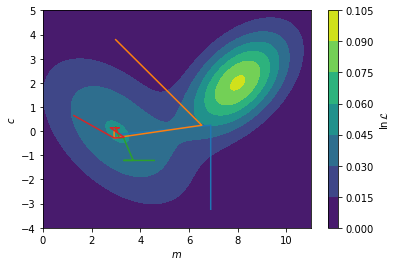
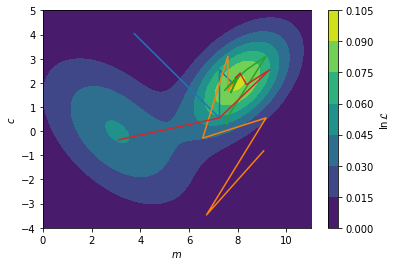
deploy: f9eff75ed99956f48f00e4bcb7a1b417d5329562

diff --git a/searchindex.js b/searchindex.js
@@ -1,1 +1,1 @@
-Search.setIndex({docnames:["1_the_fourier_transform/an_introduction_to_fourier_transforms","1_the_fourier_transform/fourier_transforms_for_reflectometry_analysis","2_model_dependent_analysis/what_is_model_dependent_analysis","3_reflectometry_slab_models/how_we_calculate_the_reflectivity_of_a_slab_model","3_reflectometry_slab_models/roughness_and_microslicing","3_reflectometry_slab_models/the_slab_model","4_model_reparameterisation/a_case_for_model_reparameterisation","4_model_reparameterisation/niti_multilayer_example","4_model_reparameterisation/phospholipid_monolayer_example","5_fitting_processes_and_problems/how_do_we_maximise_the_likelihood","5_fitting_processes_and_problems/how_to_leverage_our_prior_knowledge","5_fitting_processes_and_problems/what_is_the_likelihood","intro"],envversion:{"sphinx.domains.c":2,"sphinx.domains.changeset":1,"sphinx.domains.citation":1,"sphinx.domains.cpp":4,"sphinx.domains.index":1,"sphinx.domains.javascript":2,"sphinx.domains.math":2,"sphinx.domains.python":3,"sphinx.domains.rst":2,"sphinx.domains.std":2,"sphinx.ext.intersphinx":1,"sphinxcontrib.bibtex":9,sphinx:56},filenames:["1_the_fourier_transform/an_introduction_to_fourier_transforms.md","1_the_fourier_transform/fourier_transforms_for_reflectometry_analysis.ipynb","2_model_dependent_analysis/what_is_model_dependent_analysis.md","3_reflectometry_slab_models/how_we_calculate_the_reflectivity_of_a_slab_model.ipynb","3_reflectometry_slab_models/roughness_and_microslicing.ipynb","3_reflectometry_slab_models/the_slab_model.md","4_model_reparameterisation/a_case_for_model_reparameterisation.md","4_model_reparameterisation/niti_multilayer_example.ipynb","4_model_reparameterisation/phospholipid_monolayer_example.ipynb","5_fitting_processes_and_problems/how_do_we_maximise_the_likelihood.ipynb","5_fitting_processes_and_problems/how_to_leverage_our_prior_knowledge.md","5_fitting_processes_and_problems/what_is_the_likelihood.ipynb","intro.md"],objects:{},objnames:{},objtypes:{},terms:{"0":[1,3,4,8,9,10,11,12],"000":9,"00039":12,"001":[1,3,4],"00260":12,"003":12,"0053":12,"007":12,"012":12,"01980001503076100":12,"02":12,"022":[7,12],"02606134":9,"02614057":9,"0294":12,"03":12,"033":9,"04483674":9,"04493869":9,"0469":12,"04893":12,"0496667614679125":11,"06":[4,7],"07":12,"074":1,"074e":[1,4],"078":12,"092":9,"0j":[3,4],"1":[0,1,3,4,7,8,9,10,11,12],"10":[1,4,7,9,11,12],"1000":[1,3,8,9,11],"1008202821328":12,"1016":12,"1023":12,"1039":12,"104":1,"1051":12,"107":12,"108":12,"1098":12,"11":[9,12],"1103":12,"1107":12,"1119":12,"1198":12,"12":[4,11,12],"1204":12,"14":4,"15":[8,12],"155":12,"16":[1,3],"167":9,"17":4,"1761":12,"1763":12,"18":[8,12],"186":1,"186e":[1,3,4],"19":[8,9,12],"193":12,"1948":12,"194812030504":12,"1954":12,"197":12,"1980":12,"1997":12,"1998":12,"1999":12,"1e":4,"1f77b4":11,"1j":[1,3],"2":[1,2,3,4,7,9,11,12],"20":[1,3,4],"200":[1,3,4,12],"2005":12,"2006":12,"2007":12,"2010":12,"2011":12,"2018":12,"2019":12,"2021":12,"20384101638663543":11,"204":12,"21":12,"23":7,"248":12,"25e":4,"265":8,"265n_c":8,"2827":12,"2848":12,"297":12,"2k_nk_":4,"3":[1,3,4,5,7,9,11,12],"300":[1,3],"311":12,"3254017":12,"33":12,"338":12,"339":12,"341":12,"342":12,"357":12,"359":12,"369":12,"370":12,"3blue1brown":0,"3e":7,"4":[1,3,4,5,7,9,11,12],"40":12,"41":12,"417":7,"417e":7,"418":12,"42":[11,12],"4245e":4,"434":12,"438":7,"44":12,"4526":12,"47":[7,12],"471":12,"5":[1,3,4,8,9,12],"50":4,"500":[1,3,4],"504":12,"51":7,"52":12,"520":12,"53":12,"531":12,"54":12,"58":7,"59":12,"596":12,"5q":3,"6":[1,3,4,7,9,12],"6133":12,"6141":12,"648":12,"649":12,"69":7,"7":[4,8,9,11],"761":12,"779":12,"78":12,"8":[4,7,9,11],"856832":12,"867":7,"87":12,"871":1,"871e":[3,4],"9":[4,7,12],"90":8,"908":7,"91":7,"922868":12,"95":12,"951e":7,"978":12,"98":[1,12],"99":12,"9957561":9,"99615666":9,"99998503":9,"99999727":9,"\u00e0":12,"\u00e5":[0,1,3,4,7,8],"\u00e8":12,"\u00e9":12,"\u00f6":12,"\u00fc":12,"abel\u00e8":[3,4],"abstract":7,"br\u00f6hl":12,"case":[5,10],"do":[1,2,12],"float":[7,9,11],"function":[1,2,3,4,5,8,9,11],"import":[1,2,3,4,5,6,7,8,9,11],"int":1,"new":12,"return":[1,3,7,9,11],"switch":12,"true":[6,9],"try":9,"while":[6,7],A:[1,2,4,5,7,8,9,12],As:[5,8],Be:9,By:2,For:[1,7,8,11,12],If:[1,2,9,10,11,12],In:[1,5,6,8,9,10,12],It:[2,4,5,8,9,10,12],No:4,One:8,The:[0,2,3,4,6,7,8,9,11,12],Then:[1,2,3],There:[4,9],These:[1,4,9],To:[1,4,6],_:[1,3],ab:[1,3],abel:[3,4,12],abeles48:[3,12],abeles_with_rough:4,abl:4,about:[6,8,9,10],abov:[1,2,4,7,9,11],abscissa:11,absolut:9,academ:12,accept:[1,10],account:[4,12],accur:[2,4,6],acf2:1,acf:1,achiev:[4,8,10],across:11,act:8,action:1,ad:8,adapt:4,add:8,add_patch:4,addit:[1,6,8],addition:[2,3,4,6,7,9],admittedli:4,advanc:12,advis:12,affect:8,after:[1,9,12],again:[1,4],against:5,agnet:12,agre:11,agreement:[2,9,11],aid:3,aim:[9,11,12],air:[1,4,8,12],al:6,algorithm:[2,9,10,12],all:[0,3,9,10],allow:[6,7,8,9],alon:9,alonso:12,alpha:11,alreadi:[2,10,12],also:[4,7,8],although:1,am:12,amphiphil:8,an:[2,4,5,6,9,10,12],analog:[0,9,11],analys:[9,12],analysi:[3,5,7,8,9,10,11,12],analyt:2,andbook:12,andrew:12,angstrom:7,ani:[4,11,12],ann:12,anomagnet:12,anoth:1,anphi:12,apm:8,append:9,appl:12,appli:[1,2,4,6,8,9,12],applic:[3,9,12],approach:[1,2,3,4,5,6,7,8,9,12],approx:1,approxim:[3,12],ar:[0,1,2,3,4,5,6,7,8,9,10,11,12],area:6,argmax:9,argsort:9,arnold:12,around:4,arrai:[1,3,4,7,9],artefact:4,artifici:12,assembl:8,assess:9,assign:7,associ:[10,11,12],assum:[8,12],assumpt:[2,6,7,8],ateri:12,atom:[7,8],attach:8,attent:12,autocorrel:1,avail:1,avogadro:7,awar:[2,9],ax:[4,11],axhlin:1,b:[3,7,12],b_:[3,7],b_i:[7,8],b_ni:7,b_ti:7,back:9,bar:[3,11],base:[2,3,7],basic:12,bay:[10,12],bayesian:[10,12],becom:[1,9],been:[1,3,4,7,8,12],befor:[0,4,5,12],begin:3,being:[2,4,11],belief:10,believ:2,below:[0,1,3,4,5,7,8,9,11],benefit:8,berk:12,best:[8,9,11],beta:[1,3,4,7,8],beta_0:3,beta_1:5,beta_2:5,beta_:[1,7,8],beta_i:8,beta_microsl:4,beta_n:3,beta_ni:7,beta_ti:7,between:[0,1,2,3,4,5,9,11],bia:2,bias:10,bigg:[1,11],biolog:[9,12],bj:12,bjorck11:[9,12],black:[1,9],block:12,blue:[1,9,11],bmatrix:3,book:[1,10,12],born:[3,12],borrow:1,both:8,bound:[7,10],bowen:12,bp63:[10,12],bring:3,broad:[2,11],broadli:2,brought:3,bsd:3,c9cp00203k:12,c:[1,9,11,12],calcul:[1,2,4,5,8,11],call:5,callback:9,campbel:12,can:[1,2,3,4,5,6,7,8,9,10,11,12],cannot:[4,11],caract:12,carbon:8,carefulli:9,caruana:12,cation:12,catter:12,caus:8,caution:6,cdot:7,centr:12,chanc:12,chang:[1,2,9],character:12,characterist:3,characteristic_matric:3,chem:12,chemic:[5,6,12],chemistri:2,chi:11,circ:8,clark:12,clear:[2,4,5,9],clearer:3,clearli:4,click:12,clifton:12,close:3,cm:7,coci:12,code:[4,7,9,12],collect:12,colloid:12,color:11,colorbar:9,comfort:12,common:[2,4,5,7,8,9],commonli:[6,9,11],companion:12,compar:[2,3,4,6,11],comparison:5,complementari:6,complet:[2,9],complex:[3,8,9,12],composit:8,comput:12,computation:9,concept:6,conclus:9,condens:12,conj:3,conjug:3,consid:[1,2,3,4,5,7,8,9,10,11],consider:9,consist:[5,7,8],constant:[2,7,10],constrain:[7,8],constraint:[6,8],construct:[2,3,5,10],consult:8,content:12,context:2,continu:12,contourf:9,contrast:9,convers:6,could:[5,10],coupl:9,cours:12,cover:[2,12],creat:4,croce:[4,12],crystallogr:12,crystallographi:1,css:[8,12],cubitt:12,curr:12,current:[9,12],current_theta:9,curve_fit:11,d:[1,3,4,11,12],d_1:5,d_2:5,d_h:8,d_i:8,d_microsl:4,d_n:3,d_t:8,dan:12,data:[1,2,3,4,5,6,7,8,9,10,11,12],databas:7,datapoint:11,dataset:[9,11],de:12,decomposit:0,deep:12,def:[1,3,7,9,11],defin:[1,2,5,6,7,8,11],deg2rad:8,delta:1,denot:1,densiti:[1,3,4,5,6,8],depend:[5,7,8,9,10,11,12],deposit:7,deriv:[1,5],descent:9,describ:[2,3,4,5,6,9,10,11],descript:[1,6,8],design:10,desir:[7,9],deslatt:12,destruct:5,detail:[0,1,2],detector:5,determin:[3,9,12],develop:12,deviat:[3,11],devind:[1,10,12],diatom:2,diff:[1,3],differ:[1,4,5],differenti:[9,10,12],differential_evolut:9,difficult:8,dimens:[1,5],dimension:9,dioxid:[1,4],directli:7,discoveri:9,discuss:[1,4,5,11],disposit:7,distribut:[9,11],divid:1,docstr:3,doctrin:12,doe:[2,3,4],doi:12,domain:0,done:11,dot:11,downhil:9,dppc:8,dr:[1,10,12],draw:[9,12],dtype:3,du:12,due:[1,2],dura:12,dvanc:12,e:[5,12],each:[3,4,5,7,8],easili:[7,9],edgecolor:4,edit:12,editor:12,edler:12,effect:[1,4,9,12],effici:12,eflect:12,elast:0,element:[7,11],elementari:[1,12],eleph:12,els:2,enabl:[4,10],encount:[2,9],end:3,enrol:12,ensur:[2,9],entir:2,enumer:11,enzym:2,equat:[1,2],error:[4,11],errorbar:11,essai:12,essenti:0,estim:1,et:6,european:12,eutect:12,eutron:12,evalu:[7,12],eventu:9,ever:2,everi:8,evolut:[9,10,12],evolutionari:9,exampl:[2,4,5,6,9,10],exhaust:12,exist:[4,9],exp:[1,3,4],expect:[2,10],experi:[2,12],experiment:[2,5,6,11],explicitli:1,exploit:12,extend:8,extrem:8,f:[3,7,12],fact:10,factor:[3,11],fair:2,fals:4,familiar:[1,2,6],fantast:1,far:11,fashion:9,feder:12,feed:9,feedback:12,feel:12,fernandez:12,ff7f0e:11,field:[8,12],fig:[2,4,5,8,11],figsiz:[4,11],figur:[1,2,4,9,11,12],file:12,fill:4,fill_between:11,find:[1,2,4,7,8,9,10,11],first:[1,2,3,5,6,7,9,11,12],fit:[2,6,7,9,11],fitzsimmon:12,flat:[1,4],flavour:[6,9],flexion:12,flow:2,fm05:12,fm:7,focus:0,follow:[1,7,8,9,11,12],forc:2,form:[1,9],formal:[3,4],format:12,found:[1,3,4,7,8,9,10],four:12,fourier:[2,3,5,12],fourier_transform:1,frac:[1,3,4,7,8,10,11],fraction:8,free:[6,9,12],frensel:3,fresnel:[3,4],fresnel_reflect:3,from:[0,1,2,3,4,5,6,7,8,9,11,12],full:1,fulli:8,fundament:[0,5],further:[9,10],g:[7,12],garbag:2,gcm:7,gener:[2,9,12],genet:12,geometri:5,gerelli:12,get:[2,11,12],give:[0,3,6,12],given:[4,5,8,9,11],glob:12,global:[9,12],go:[3,5,9],good:11,gradient:11,gradient_callback:9,gradient_v:9,graphic:7,great:[0,10],greater:1,group:8,guess:9,guntherodt:12,h:12,ha:[1,4,7,8,12],hall:12,hand:4,hard:7,harder:9,have:[1,2,3,8,9,10,11,12],head:8,heavili:[8,11,12],heavisid:1,heinrich:12,helper:[4,9],henc:[0,11],henomena:12,here:[3,11,12],heurist:12,higher:8,hoogerheid:12,hopefulli:5,horizont:1,how:[2,5,6,8,11,12],howard:12,howev:[1,2,4,5,6,7,9,11],hydrocarbon:8,hydrophil:8,hydrophob:[8,12],i:[1,3,5,7,8,11],identifi:4,ignor:4,impact:[0,4],implement:[3,4,9],impli:4,impos:10,improv:2,inaccur:4,incid:[1,5],includ:[0,2,3,7,8,12],incorrectli:4,increas:[4,9,11],independ:2,indic:[1,9,11],individu:[3,7],induc:12,influenc:4,inform:[1,6,12],infti:1,inher:2,initi:9,input:3,insect:9,insight:[2,12],insolubl:8,inspir:9,instead:[1,3,7,9,10],instrument:8,integr:[10,12],intens:[1,9],interact:[0,1,7,8,9,11,12],intercal:8,intercept:11,interest:[0,2,12],interfac:[3,4,5,8,12],interfer:5,interpret:[2,4],interrog:[4,9],introduc:[2,4,5,6,8,10,12],introduct:10,inv_fourier_transform:1,invers:[1,12],investig:[1,2,6,9],involv:[5,7],isbn:12,isotop:9,issu:1,its:7,j:12,jackson:12,jci:12,john:[6,12],jpsc21:[6,12],jupyt:12,jupyterhub:12,k0:3,k:[1,3,9,12],k_0:3,k_:[3,4],k_n:[3,4],karin:12,khairi:12,kienzl:12,kinet:2,kn:3,knowledg:12,known:[2,4,8],kronm:12,l:[9,10,11,12],la:12,label:[1,3,4,9],lak19:12,lakei:12,languag:[6,12],larg:[1,12],later:[5,7],latter:6,launch:12,lawrenc:12,layer:[3,4,5,7,8],le:12,lead:[0,2,4,5],leak:4,learn:[7,8,9,11,12],lectromagn:12,lectur:12,left:4,legend:[1,3,4],length:[1,3,4,5,6,8],less:5,let:[0,1,10],licens:3,light:12,like:[2,4,8,10],likelihood:10,limit:[1,2,7,8],line:[1,9,11],linearli:11,link:12,linspac:[1,3,4,8,9,11],lipid:12,liquid:12,list:12,literatur:8,ller:12,ln:[9,11],loadtxt:11,local:9,log:[1,3,4,11,12],logic:[2,10,12],logpdf:9,lond:12,look:[0,1,2,3,6,9,10,11],loss:1,lost:5,lovel:12,low:3,lr99:[2,12],ls:11,lw:11,m:[3,9,11,12],m_:[3,7],m_w:7,m_w_ni:7,m_w_ti:7,made:[2,6,7],magnet:12,magnitud:1,mai:[1,2,6,7,11,12],majkrzak:12,major:[7,11],make:[2,3,6,8,12],manag:12,mani:9,marker:11,mass:6,match:1,materi:[1,3,4,5,7,12],mathcal:[9,10,11],mathemat:12,mathit:[1,3],mathrm:[1,3,7,8,11],matnei:12,matplotlib:[1,3,4,8,9,11],matric:3,matrix:[3,4],matter:[7,12],matyszewska:12,max:[1,3,11],maxima:9,maximilian:12,maximis:[10,11],maximum:[8,9,10,11],mayer:12,mbd:[1,12],mccluskei:12,mead:9,mean:[1,4,7,8,9,11],measur:[0,1,2,5,6,10,11],media:3,member:9,membran:12,menten:2,mention:8,merit:2,meshgrid:9,method:[3,4,12],methodolog:[1,2,4,9,12],metric:[9,11],micel:12,micha:2,might:2,milieux:12,minim:9,minimis:[9,11],minimum:[9,10],minut:12,mkh10:[2,12],modal:9,model:[1,4,7,8,9,10,11,12],modifi:[3,4,12],modul:[4,9],mol:7,molecul:[2,6],molecular:7,monolay:12,more:[0,2,4,6,7,8,9,10,11],most:[3,4,5,9],move:9,movement:12,msfe:[8,12],much:[3,5],multi:9,multivariate_norm:9,must:[2,4,8],mv1:9,mv2:9,mv:9,n:[3,4,7,8,11,12],n_:[3,11],n_a:7,n_c:8,nanostructur:12,natur:[6,8],navig:12,nazaruk:12,ndarrai:[1,3,7,9,11],nearbi:9,necessari:[3,4,9],need:2,neg:9,nelder:9,nelson:12,neutron:[0,1,2,3,5,6,7,9],nevot:4,nevotc80:[4,12],newaxi:[1,3],ni:7,nickel:[4,7],nll:9,nois:1,noisi:1,non:9,none:9,norm:11,normal:[1,3,9,11],normal_wavevector:3,normalis:[1,11],note:[1,2,8,9],notebook:[7,8,9,11,12],notic:[4,11],now:[0,3,4,8,9,11],np19:[3,12],np:[1,3,4,7,8,9,11],nuanc:5,number:[1,6,7,8,9,11],number_lay:3,number_q:3,numpi:[1,3,4,7,8,9,11],o:11,observ:[1,4,5,11],obtain:[1,4,7],obvious:5,offer:2,olar:12,onc:[9,12],ond:12,one:[8,9,10,11,12],ones:3,ones_lik:4,onli:[1,4,7,8,11],onlin:7,opin:12,opinion:12,optim:[9,11,12],optimis:[8,9],optimum:9,orang:[9,11],order:[5,9],org:[7,8,9,11,12],other:[8,11],our:[1,2,4,5,6,7,8,9,11],out:[2,10],outsid:10,over:12,overal:[3,9,11],overview:0,oxford:12,p0:3,p1:3,p:[10,11,12],packag:[3,7],page:12,pai:12,pan:[7,8,9,11,12],panaccion:12,panosc:12,paper:12,par54:[3,12],par:12,param:[1,3,7,11],paramet:[3,4,5,6,7,8,9,10,11,12],parameteris:[6,8,12],pari:12,parker:12,parkin:12,parratt:[3,12],part:[1,11],particl:9,particular:[5,6],particularli:12,patch:4,path:[5,9,12],pattern:[0,5],pdf:[9,11],peak:1,pedulla:12,per:6,perfect:4,perfectli:4,perform:[0,1,11],perpendicular:1,pg:1,phase:[1,2,3,12],phase_factor:3,phi:3,phi_0:3,phi_i:8,phi_n:3,phi_t:3,phil:12,phospholipid:12,phy:12,physic:[1,2,5,6,8,12],physica:12,physrev:12,pi:[1,3,11],pictori:8,piec:[1,4,7],pint:7,place:10,plane:[1,8],pleas:12,plot:[1,3,4,8,9,11,12],plt:[1,3,4,8,9,11],point:11,polar:12,polissag:12,popul:9,popular:2,posit:9,possibl:[1,2,4,5,8,9,11],posterior:10,power:12,prepar:[2,7],prescott:12,present:[1,2,4],press:12,pressur:8,preston:12,previou:[2,6],previous:[3,4,6,8],price:12,print:[7,9],probabl:[10,11],probe:[2,9,10],problem:[1,2,9,12],procedur:12,process:[2,6,7,9,12],prod:3,produc:[1,2,12],product:3,profil:[1,4,5],program:12,project:12,propag:[3,5,12],propos:2,propto:10,py:[4,9],pyplot:[1,3,4,8,9,11],python:[3,12],q2:1,q:[0,1,2,3,4,12],q_:1,q_x:1,q_y:1,qualiti:9,quantifi:9,quelqu:12,question:12,quick:1,r2:1,r:[1,3,4,5,8,12],r_:[3,4],r_abel:3,r_fourier:3,r_microsl:4,r_nevot_croc:4,r_with_rough:4,radiat:[0,1],rai:[1,12],random:9,rang:[1,2,3,4,9,12],rasant:12,rather:[2,6,7],ratio:5,ration:9,rayon:12,rck:12,re:9,reach:[7,9],read:12,reader:12,real:[3,4,5],realli:2,reason:7,recent:[8,12],recogn:12,rectangl:4,recurs:3,red:4,reduc:[6,8],refin:5,reflect:[1,2,4,5,12],reflectometri:[0,2,3,4,5,6,7,8,9,11],refnx:[3,12],refract:[3,5],region:[1,4,8,9],relat:7,relationship:1,relev:[8,12],reli:3,render:1,reparameteris:[5,7,8,11,12],repeat:7,repres:[2,11],reproduc:3,request:12,requir:[6,12],res1:9,res2:9,resolut:[1,2],respect:1,result:[1,2,3,4,5,9],resultant_matrix:3,retriv:1,rev:12,review:12,rewrit:1,rho:[3,7],rho_:7,rho_ni:7,rho_ti:7,rho_to_beta:7,richardson:12,right:4,risat:12,robust:9,room:7,root:9,rout:9,rphysap:12,rsta:12,rstl:12,rule:4,run:12,s0021889811041446:12,s0921:12,s1359:12,s1600576718017016:12,s1600576718017296:12,s:[0,1,7,8,9,10,12],saaka:12,sai:1,same:[4,5,7,11],sampl:[0,1,2,4,7],sanchez:12,sansom:12,satija:12,scale:[1,12],scatter:[0,1,3,4,5,6,8,12],sche:12,sci:12,scienc:[2,12],scipi:[7,9,11],search:12,section:[2,5,6,9],see:[4,5,9],seen:[10,11],select:11,self:8,semi:9,sensit:1,seri:[3,4,5],set:7,set_xlabel:[4,11],set_xlim:4,set_ylabel:[4,11],set_ylim:4,shao:12,shape:[3,9],shortest:4,should:[1,4,6,8,9,11,12],show:[1,2,3,4,5,7,8,9,11,12],shown:[1,2,3,4,5,8,9,11],si:1,sigma2:4,sigma3:4,sigma5:4,sigma7:4,sigma:[4,11],sigma_:4,sigma_n:11,silic:12,silicon:[1,4,7],similar:[2,3],simpl:[1,2,5,6,7,8,9,10,12],simpli:9,simul:[2,4,5,6,7],sin:8,singl:[8,11],sio_2:1,sit:[8,11],siv11:[1,12],sivia:[1,10,12],sj06:[10,12],skill:12,skip:12,sko19:12,skoda:12,slab:[4,6,8,12],sld_with_rough:4,smooth:[1,4],so:[11,12],soc:12,soft:12,softwar:12,solid:12,solubl:8,solut:9,solv:12,solvat:8,solvent:[8,12],some:[0,1,2,4,5,8,9,10,11,12],someth:[0,2],son:12,sourc:12,sp97:[9,12],space:[0,9,12],spallat:12,speak:8,specif:[6,8],spectra:2,specular:12,spintron:12,springer:12,sqrt:3,squar:[1,3],sratifi:12,staff:8,standard:11,start:[9,10],stat:[9,11],state:10,step:[4,9,10],stephen:12,still:[4,7],storn:12,straight_lin:11,straightforward:6,strand:8,stratifi:3,structur:[1,2,6,7,12],studi:[1,2,8,12],subject:12,subplot:[4,11],suggest:[10,12],sum:[1,3,7],sum_:[7,8,11],summat:11,superphas:3,sur:12,sure:12,surfac:[1,3,7,12],surfact:12,swarm:9,synthesi:2,system:[1,2,4,5,6,7,8,9,12],t:[9,12],t_t:8,tackl:2,tail:8,take:[0,2,9,10,12],taken:[3,5],tan80:[8,12],tanford:[8,12],techniqu:[6,12],temperatur:7,tend:1,term:[5,7,8,11],textquotesingl:12,than:[1,4,7,9],thank:12,thei:[9,12],them:[4,11],theorem:10,theori:[1,12],therefor:[2,4,6,7,9,10],theta:[8,9,10,11],thi:[0,1,2,3,4,5,6,7,8,9,10,11,12],thick:[1,3,4,5,8],thin:4,thing:2,think:6,those:10,thought:1,three:[2,7],through:[3,4,5],thumb:4,tight_layout:11,time:[0,1,4,7,12],tiqu:12,titanium:7,tkh:[9,12],togeth:3,tool:[1,2,6],top4:9,top:1,toperverg:12,total:12,touch:12,toward:[1,9,12],tradit:[7,8,12],tran:12,transform:[2,3,5,12],translat:6,transmitt:3,treec:12,trigonometri:8,tude:12,turn:9,tutori:[10,12],two:[2,3,4,5,6,8,9],txt:11,typic:[2,4,5,6,7,8,9,11],tz07:12,u:7,uantum:12,umbrellaid:12,uncertainti:11,unclear:7,under:[1,3,8],underli:[2,11],understand:[2,3,5,6,10,12],unintuit:6,uniqu:9,unit:0,unitregistri:7,univers:12,unlik:8,unphys:[1,4],until:7,up:[9,12],uphil:9,url:12,us:[2,3,4,6,7,8,9,10,11,12],useless:1,user:[1,12],utilis:1,valu:[1,3,7,8,9,10,11],vari:[7,9],variabl:7,varieti:9,vector:3,veri:[4,8,9],verr:12,version:1,via:[7,8,9,11],vibrat:2,video:0,visit:12,visualis:[1,4],vot:12,w:[7,12],wa:[1,2,5,10,12],wai:[2,8],wait:12,want:12,watch:0,water:[8,12],wave:[3,5],wavevector:[1,3],wc19:12,we:[0,1,2,4,5,6,7,8,10,11,12],weight:7,welbourn:12,well:2,were:10,what:12,when:[3,5,8,9,10,11],where:[1,2,3,4,5,7,8,9,10,11],which:[0,1,3,4,7,8,9,10,11],width:4,wiesendang:12,wilei:12,within:10,without:[1,2,4],word:2,work:[4,6,12],workflow:2,wormington:12,would:[2,4,5,8,10],wpmb99:[9,12],written:[1,11],wwe:8,x:[1,9,11,12],x_n:11,xlabel:[1,3,4,8,9],xy:8,y:[9,10,11,12],y_fit:11,y_n:11,ylabel:[1,3,4,8,9],you:[1,2,10,11,12],your:[8,12],yourself:12,yscale:[1,3,4],yy:11,z:[1,3,4,5],zabel:12,zero:3,zeros_lik:[1,3],zhou:12,zorder:11,zq:1,ztbt07:12},titles:["An introduction to Fourier transforms","Fourier transforms for reflectometry analysis","What is model-dependent analysis?","How we calculate the reflectivity of a slab model","Roughness and microslicing","The \u201cslab model\u201d","A case for model reparameterisation","NiTi multilayer example","Phospholipid monolayer example","How do we maximise the likelihood?","How to leverage our prior knowledge?","What is the likelihood?","Introduction to neutron reflectometry fitting"],titleterms:{"case":6,"do":9,A:[6,10],The:[1,5],algorithm:3,an:[0,1],analysi:[1,2],angl:8,approxim:1,area:8,bibliographi:12,born:1,calcul:3,chain:8,densiti:7,depend:2,exampl:[1,7,8],fit:12,fourier:[0,1],gradient:9,how:[3,9,10],interfac:1,interfaci:4,introduct:[0,12],knowledg:10,layer:1,length:7,leverag:10,likelihood:[9,11],mass:7,maximis:9,method:9,microsl:4,model:[2,3,5,6],molecul:8,monolay:8,multilay:7,neutron:12,niti:7,our:10,oxid:1,per:8,phospholipid:8,prior:10,problem:4,reflect:3,reflectometri:[1,12],reparameteris:6,rough:4,scatter:7,singl:1,slab:[3,5],specular:1,stochast:9,tilt:8,transform:[0,1],uniform:10,us:1,we:[3,9],what:[0,2,11]}})
+Search.setIndex({docnames:["1_the_fourier_transform/an_introduction_to_fourier_transforms","1_the_fourier_transform/fourier_transforms_for_reflectometry_analysis","2_model_dependent_analysis/what_is_model_dependent_analysis","3_reflectometry_slab_models/how_we_calculate_the_reflectivity_of_a_slab_model","3_reflectometry_slab_models/roughness_and_microslicing","3_reflectometry_slab_models/the_slab_model","4_model_reparameterisation/a_case_for_model_reparameterisation","4_model_reparameterisation/niti_multilayer_example","4_model_reparameterisation/phospholipid_monolayer_example","5_fitting_processes_and_problems/how_do_we_maximise_the_likelihood","5_fitting_processes_and_problems/how_to_leverage_our_prior_knowledge","5_fitting_processes_and_problems/what_is_the_likelihood","intro"],envversion:{"sphinx.domains.c":2,"sphinx.domains.changeset":1,"sphinx.domains.citation":1,"sphinx.domains.cpp":4,"sphinx.domains.index":1,"sphinx.domains.javascript":2,"sphinx.domains.math":2,"sphinx.domains.python":3,"sphinx.domains.rst":2,"sphinx.domains.std":2,"sphinx.ext.intersphinx":1,"sphinxcontrib.bibtex":9,sphinx:56},filenames:["1_the_fourier_transform/an_introduction_to_fourier_transforms.md","1_the_fourier_transform/fourier_transforms_for_reflectometry_analysis.ipynb","2_model_dependent_analysis/what_is_model_dependent_analysis.md","3_reflectometry_slab_models/how_we_calculate_the_reflectivity_of_a_slab_model.ipynb","3_reflectometry_slab_models/roughness_and_microslicing.ipynb","3_reflectometry_slab_models/the_slab_model.md","4_model_reparameterisation/a_case_for_model_reparameterisation.md","4_model_reparameterisation/niti_multilayer_example.ipynb","4_model_reparameterisation/phospholipid_monolayer_example.ipynb","5_fitting_processes_and_problems/how_do_we_maximise_the_likelihood.ipynb","5_fitting_processes_and_problems/how_to_leverage_our_prior_knowledge.md","5_fitting_processes_and_problems/what_is_the_likelihood.ipynb","intro.md"],objects:{},objnames:{},objtypes:{},terms:{"0":[1,3,4,8,9,10,11,12],"000":9,"00039":12,"001":[1,3,4],"00260":12,"003":12,"0053":12,"007":12,"012":12,"01980001503076100":12,"02":12,"022":[7,12],"02614057":9,"0294":12,"03":12,"033":9,"04493869":9,"0469":12,"04893":12,"0496667614679125":11,"06":[4,7],"07":12,"074":1,"074e":[1,4],"078":12,"092":9,"0j":[3,4],"1":[0,1,3,4,7,8,9,10,11,12],"10":[1,4,7,9,11,12],"1000":[1,3,8,9,11],"1008202821328":12,"1016":12,"1023":12,"1039":12,"104":1,"1051":12,"107":12,"108":12,"1098":12,"11":[9,12],"1103":12,"1107":12,"1119":12,"1198":12,"12":[4,11,12],"1204":12,"14":4,"15":[8,12],"155":12,"16":[1,3],"167":9,"17":4,"1761":12,"1763":12,"18":[8,12],"186":1,"186e":[1,3,4],"19":[8,9,12],"193":12,"1948":12,"194812030504":12,"1954":12,"197":12,"1980":12,"1997":12,"1998":12,"1999":12,"1e":4,"1f77b4":11,"1j":[1,3],"2":[1,2,3,4,7,9,11,12],"20":[1,3,4],"200":[1,3,4,12],"2005":12,"2006":12,"2007":12,"2010":12,"2011":12,"2018":12,"2019":12,"2021":12,"20384101638663543":11,"204":12,"21":12,"23":7,"248":12,"25e":4,"265":8,"265n_c":8,"2827":12,"2848":12,"297":12,"2k_nk_":4,"3":[1,3,4,5,7,9,11,12],"300":[1,3],"30324761":9,"311":12,"3254017":12,"33":12,"338":12,"339":12,"341":12,"342":12,"357":12,"359":12,"369":12,"370":12,"3blue1brown":0,"3e":7,"4":[1,3,4,5,7,9,11,12],"40":12,"41":12,"417":7,"417e":7,"418":12,"42":[11,12],"4245e":4,"434":12,"438":7,"44":12,"4526":12,"47":[7,12],"471":12,"5":[1,3,4,8,9,12],"50":4,"500":[1,3,4],"504":12,"51":7,"52":12,"520":12,"53":12,"531":12,"54":12,"58":7,"59":12,"596":12,"5q":3,"6":[1,3,4,7,9,12],"6133":12,"6141":12,"648":12,"649":12,"69":7,"7":[4,8,9,11],"761":12,"779":12,"78":12,"8":[4,7,9,11],"856832":12,"867":7,"87":12,"871":1,"871e":[3,4],"9":[4,7,12],"90":8,"908":7,"91":7,"922868":12,"95":12,"951e":7,"97659902":9,"978":12,"98":[1,12],"99":12,"9957561":9,"99615666":9,"99998503":9,"99999727":9,"\u00e0":12,"\u00e5":[0,1,3,4,7,8],"\u00e8":12,"\u00e9":12,"\u00f6":12,"\u00fc":12,"abel\u00e8":[3,4],"abstract":7,"br\u00f6hl":12,"case":[5,10],"do":[1,2,12],"float":[7,9,11],"function":[1,2,3,4,5,8,9,11],"import":[1,2,3,4,5,6,7,8,9,11],"int":1,"new":12,"return":[1,3,7,9,11],"switch":12,"true":[6,9],"try":9,"while":[6,7],A:[1,2,4,5,7,8,9,12],As:[5,8],Be:9,By:2,For:[1,7,8,11,12],If:[1,2,9,10,11,12],In:[1,5,6,8,9,10,12],It:[2,4,5,8,9,10,12],No:4,One:8,The:[0,2,3,4,6,7,8,9,11,12],Then:[1,2,3],There:[4,9],These:[1,4,9],To:[1,4,6],_:[1,3],ab:[1,3],abel:[3,4,12],abeles48:[3,12],abeles_with_rough:4,abl:4,about:[6,8,9,10],abov:[1,2,4,7,9,11],abscissa:11,absolut:9,academ:12,accept:[1,10],account:[4,12],accur:[2,4,6],acf2:1,acf:1,achiev:[4,8,10],across:11,act:8,action:1,ad:8,adapt:4,add:8,add_patch:4,addit:[1,6,8],addition:[2,3,4,6,7,9],admittedli:4,advanc:12,advis:12,affect:8,after:[1,9,12],again:[1,4],against:5,agnet:12,agre:11,agreement:[2,9,11],aid:3,aim:[9,11,12],air:[1,4,8,12],al:6,algorithm:[2,9,10,12],all:[0,3,9,10],allow:[6,7,8,9],alon:9,alonso:12,alpha:11,alreadi:[2,10,12],also:[4,7,8],although:1,am:12,amphiphil:8,an:[2,4,5,6,9,10,12],analog:[0,9,11],analys:[9,12],analysi:[3,5,7,8,9,10,11,12],analyt:2,andbook:12,andrew:12,angstrom:7,ani:[4,11,12],ann:12,anomagnet:12,anoth:1,anphi:12,apm:8,append:9,appl:12,appli:[1,2,4,6,8,9,12],applic:[3,9,12],approach:[1,2,3,4,5,6,7,8,9,12],approx:1,approxim:[3,12],ar:[0,1,2,3,4,5,6,7,8,9,10,11,12],area:6,argmax:9,argsort:9,arnold:12,around:4,arrai:[1,3,4,7,9],artefact:4,artifici:12,assembl:8,assess:9,assign:7,associ:[10,11,12],assum:[8,12],assumpt:[2,6,7,8],ateri:12,atom:[7,8],attach:8,attent:12,autocorrel:1,avail:1,avogadro:7,awar:[2,9],ax:[4,11],axhlin:1,b:[3,7,12],b_:[3,7],b_i:[7,8],b_ni:7,b_ti:7,back:9,bar:[3,11],base:[2,3,7],basic:12,bay:[10,12],bayesian:[10,12],becom:[1,9],been:[1,3,4,7,8,12],befor:[0,4,5,12],begin:3,being:[2,4,11],belief:10,believ:2,below:[0,1,3,4,5,7,8,9,11],benefit:8,berk:12,best:[8,9,11],beta:[1,3,4,7,8],beta_0:3,beta_1:5,beta_2:5,beta_:[1,7,8],beta_i:8,beta_microsl:4,beta_n:3,beta_ni:7,beta_ti:7,between:[0,1,2,3,4,5,9,11],bia:2,bias:10,bigg:[1,11],biolog:[9,12],bj:12,bjorck11:[9,12],black:[1,9],block:12,blue:[1,9,11],bmatrix:3,book:[1,10,12],born:[3,12],borrow:1,both:8,bound:[7,10],bowen:12,bp63:[10,12],bring:3,broad:[2,11],broadli:2,brought:3,bsd:3,c9cp00203k:12,c:[1,9,11,12],calcul:[1,2,4,5,8,11],call:5,callback:9,campbel:12,can:[1,2,3,4,5,6,7,8,9,10,11,12],cannot:[4,11],caract:12,carbon:8,carefulli:9,caruana:12,cation:12,catter:12,caus:8,caution:6,cdot:7,centr:12,chanc:12,chang:[1,2,9],character:12,characterist:3,characteristic_matric:3,chem:12,chemic:[5,6,12],chemistri:2,chi:11,circ:8,clark:12,clear:[2,4,5,9],clearer:3,clearli:4,click:12,clifton:12,close:3,cm:7,coci:12,code:[4,7,9,12],collect:12,colloid:12,color:11,colorbar:9,comfort:12,common:[2,4,5,7,8,9],commonli:[6,9,11],companion:12,compar:[2,3,4,6,11],comparison:5,complementari:6,complet:[2,9],complex:[3,8,9,12],composit:8,comput:12,computation:9,concept:6,conclus:9,condens:12,conj:3,conjug:3,consid:[1,2,3,4,5,7,8,9,10,11],consider:9,consist:[5,7,8],constant:[2,7,10],constrain:[7,8],constraint:[6,8],construct:[2,3,5,10],consult:8,content:12,context:2,continu:12,contourf:9,contrast:9,convers:6,could:[5,10],coupl:9,cours:12,cover:[2,12],creat:4,croce:[4,12],crystallogr:12,crystallographi:1,css:[8,12],cubitt:12,curr:12,current:[9,12],current_theta:9,curve_fit:11,d:[1,3,4,11,12],d_1:5,d_2:5,d_h:8,d_i:8,d_microsl:4,d_n:3,d_t:8,dan:12,data:[1,2,3,4,5,6,7,8,9,10,11,12],databas:7,datapoint:11,dataset:[9,11],de:12,decomposit:0,deep:12,def:[1,3,7,9,11],defin:[1,2,5,6,7,8,11],deg2rad:8,delta:1,denot:1,densiti:[1,3,4,5,6,8],depend:[5,7,8,9,10,11,12],deposit:7,deriv:[1,5],descent:9,describ:[2,3,4,5,6,9,10,11],descript:[1,6,8],design:10,desir:[7,9],deslatt:12,destruct:5,detail:[0,1,2],detector:5,determin:[3,9,12],develop:12,deviat:[3,11],devind:[1,10,12],diatom:2,diff:[1,3],differ:[1,4,5],differenti:[9,10,12],differential_evolut:9,difficult:8,dimens:[1,5],dimension:9,dioxid:[1,4],directli:7,discoveri:9,discuss:[1,4,5,11],disposit:7,distribut:[9,11],divid:1,docstr:3,doctrin:12,doe:[2,3,4],doi:12,domain:0,done:11,dot:11,downhil:9,dppc:8,dr:[1,10,12],draw:[9,12],dtype:3,du:12,due:[1,2],dura:12,dvanc:12,e:[5,12],each:[3,4,5,7,8],easili:[7,9],edgecolor:4,edit:12,editor:12,edler:12,effect:[1,4,9,12],effici:12,eflect:12,elast:0,element:[7,11],elementari:[1,12],eleph:12,els:2,enabl:[4,10],encount:[2,9],end:3,enrol:12,ensur:[2,9],entir:2,enumer:11,enzym:2,equat:[1,2],error:[4,11],errorbar:11,essai:12,essenti:0,estim:1,et:6,european:12,eutect:12,eutron:12,evalu:[7,12],eventu:9,ever:2,everi:8,evolut:[9,10,12],evolutionari:9,exampl:[2,4,5,6,9,10],exhaust:12,exist:[4,9],exp:[1,3,4],expect:[2,10],experi:[2,12],experiment:[2,5,6,11],explicitli:1,exploit:12,extend:8,extrem:8,f:[3,7,12],fact:10,factor:[3,11],fair:2,fals:4,familiar:[1,2,6],fantast:1,far:11,fashion:9,feder:12,feed:9,feedback:12,feel:12,fernandez:12,ff7f0e:11,field:[8,12],fig:[2,4,5,8,11],figsiz:[4,11],figur:[1,2,4,9,11,12],file:12,fill:4,fill_between:11,find:[1,2,4,7,8,9,10,11],first:[1,2,3,5,6,7,9,11,12],fit:[2,6,7,9,11],fitzsimmon:12,flat:[1,4],flavour:[6,9],flexion:12,flow:2,fm05:12,fm:7,focus:0,follow:[1,7,8,9,11,12],forc:2,form:[1,9],formal:[3,4],format:12,found:[1,3,4,7,8,9,10],four:12,fourier:[2,3,5,12],fourier_transform:1,frac:[1,3,4,7,8,10,11],fraction:8,free:[6,9,12],frensel:3,fresnel:[3,4],fresnel_reflect:3,from:[0,1,2,3,4,5,6,7,8,9,11,12],full:1,fulli:8,fundament:[0,5],further:[9,10],g:[7,12],garbag:2,gcm:7,gener:[2,9,12],genet:12,geometri:5,gerelli:12,get:[2,11,12],give:[0,3,6,12],given:[4,5,8,9,11],glob:12,global:[9,12],go:[3,5,9],good:11,gradient:11,gradient_callback:9,gradient_v:9,graphic:7,great:[0,10],greater:1,group:8,guess:9,guntherodt:12,h:12,ha:[1,4,7,8,12],hall:12,hand:4,hard:7,harder:9,have:[1,2,3,8,9,10,11,12],head:8,heavili:[8,11,12],heavisid:1,heinrich:12,helper:[4,9],henc:[0,11],henomena:12,here:[3,11,12],heurist:12,higher:8,hoogerheid:12,hopefulli:5,horizont:1,how:[2,5,6,8,11,12],howard:12,howev:[1,2,4,5,6,7,9,11],hydrocarbon:8,hydrophil:8,hydrophob:[8,12],i:[1,3,5,7,8,11],identifi:4,ignor:4,impact:[0,4],implement:[3,4,9],impli:4,impos:10,improv:2,inaccur:4,incid:[1,5],includ:[0,2,3,7,8,12],incorrectli:4,increas:[4,9,11],independ:2,indic:[1,9,11],individu:[3,7],induc:12,influenc:4,inform:[1,6,12],infti:1,inher:2,initi:9,input:3,insect:9,insight:[2,12],insolubl:8,inspir:9,instead:[1,3,7,9,10],instrument:8,integr:[10,12],intens:[1,9],interact:[0,1,7,9,11,12],intercal:8,intercept:11,interest:[0,2,12],interfac:[3,4,5,8,12],interfer:5,interpret:[2,4],interrog:[4,9],introduc:[2,4,5,6,8,10,12],introduct:10,inv_fourier_transform:1,invers:[1,12],investig:[1,2,6,9],involv:[5,7],isbn:12,isotop:9,issu:1,its:7,j:12,jackson:12,jci:12,john:[6,12],jpsc21:[6,12],jupyt:12,jupyterhub:12,k0:3,k:[1,3,9,12],k_0:3,k_:[3,4],k_n:[3,4],karin:12,khairi:12,kienzl:12,kinet:2,kn:3,knowledg:12,known:[2,4,8],kronm:12,l:[9,10,11,12],la:12,label:[1,3,4,9],lak19:12,lakei:12,languag:[6,12],larg:[1,12],later:[5,7],latter:6,launch:12,lawrenc:12,layer:[3,4,5,7,8],le:12,lead:[0,2,4,5],leak:4,learn:[7,8,9,11,12],lectromagn:12,lectur:12,left:4,legend:[1,3,4],length:[1,3,4,5,6,8],less:5,let:[0,1,10],licens:3,light:12,like:[2,4,8,10],likelihood:10,limit:[1,2,7,8],line:[1,9,11],linearli:11,link:12,linspac:[1,3,4,8,9,11],lipid:12,liquid:12,list:12,literatur:8,ller:12,ln:[9,11],loadtxt:11,local:9,log:[1,3,4,11,12],logic:[2,10,12],logpdf:9,lond:12,look:[0,1,2,3,6,9,10,11],loss:1,lost:5,lovel:12,low:3,lr99:[2,12],ls:11,lw:11,m:[3,9,11,12],m_:[3,7],m_w:7,m_w_ni:7,m_w_ti:7,made:[2,6,7],magnet:12,magnitud:1,mai:[1,2,6,7,11,12],majkrzak:12,major:[7,11],make:[2,3,6,8,12],manag:12,mani:9,marker:11,mass:6,match:1,materi:[1,3,4,5,7,12],mathcal:[9,10,11],mathemat:12,mathit:[1,3],mathrm:[1,3,7,8,11],matnei:12,matplotlib:[1,3,4,8,9,11],matric:3,matrix:[3,4],matter:[7,12],matyszewska:12,max:[1,3,11],maxima:9,maximilian:12,maximis:[10,11],maximum:[8,9,10,11],mayer:12,mbd:[1,12],mccluskei:12,mead:9,mean:[1,4,7,8,9,11],measur:[0,1,2,5,6,10,11],media:3,member:9,membran:12,menten:2,mention:8,merit:2,meshgrid:9,method:[3,4,12],methodolog:[1,2,4,9,12],metric:[9,11],micel:12,micha:2,might:2,milieux:12,minim:9,minimis:[9,11],minimum:[9,10],minut:12,mkh10:[2,12],modal:9,model:[1,4,7,8,9,10,11,12],modifi:[3,4,12],modul:[4,9],mol:7,molecul:[2,6],molecular:7,monolay:12,more:[0,2,4,6,7,8,9,10,11],most:[3,4,5,9],move:9,movement:12,msfe:[8,12],much:[3,5],multi:9,multivariate_norm:9,must:[2,4,8],mv1:9,mv2:9,mv:9,n:[3,4,7,8,11,12],n_:[3,11],n_a:7,n_c:8,nanostructur:12,natur:[6,8],navig:12,nazaruk:12,ndarrai:[1,3,7,9,11],nearbi:9,necessari:[3,4,9],need:2,neg:9,nelder:9,nelson:12,neutron:[0,1,2,3,5,6,7,9],nevot:4,nevotc80:[4,12],newaxi:[1,3],ni:7,nickel:[4,7],nll:9,nois:1,noisi:1,non:9,none:9,norm:11,normal:[1,3,9,11],normal_wavevector:3,normalis:[1,11],note:[1,2,8,9],notebook:[7,9,11,12],notic:[4,11],now:[0,3,4,8,9,11],np19:[3,12],np:[1,3,4,7,8,9,11],nuanc:5,number:[1,6,7,8,9,11],number_lay:3,number_q:3,numpi:[1,3,4,7,8,9,11],o:11,observ:[1,4,5,11],obtain:[1,4,7],obvious:5,offer:2,olar:12,onc:[9,12],ond:12,one:[8,9,10,11,12],ones:3,ones_lik:4,onli:[1,4,7,8,11],onlin:7,opin:12,opinion:12,optim:[9,11,12],optimis:[8,9],optimum:9,orang:[9,11],order:[5,9],org:[7,9,11,12],other:[8,11],our:[1,2,4,5,6,7,8,9,11],out:[2,10],outsid:10,over:12,overal:[3,9,11],overview:0,oxford:12,p0:3,p1:3,p:[10,11,12],packag:[3,7],page:12,pai:12,pan:[7,9,11,12],panaccion:12,panosc:12,paper:12,par54:[3,12],par:12,param:[1,3,7,11],paramet:[3,4,5,6,7,8,9,10,11,12],parameteris:[6,8,12],pari:12,parker:12,parkin:12,parratt:[3,12],part:[1,11],particl:9,particular:[5,6],particularli:12,patch:4,path:[5,9,12],pattern:[0,5],pdf:[9,11],peak:1,pedulla:12,per:6,perfect:4,perfectli:4,perform:[0,1,11],perpendicular:1,pg:1,phase:[1,2,3,12],phase_factor:3,phi:3,phi_0:3,phi_i:8,phi_n:3,phi_t:3,phil:12,phospholipid:12,phy:12,physic:[1,2,5,6,8,12],physica:12,physrev:12,pi:[1,3,11],pictori:8,piec:[1,4,7],pint:7,place:10,plane:[1,8],pleas:12,plot:[1,3,4,8,9,11,12],plt:[1,3,4,8,9,11],point:11,polar:12,polissag:12,popul:9,popular:2,posit:9,possibl:[1,2,4,5,8,9,11],posterior:10,power:12,prepar:[2,7],prescott:12,present:[1,2,4],press:12,pressur:8,preston:12,previou:[2,6],previous:[3,4,6,8],price:12,print:[7,9],probabl:[10,11],probe:[2,9,10],problem:[1,2,9,12],procedur:12,process:[2,6,7,9,12],prod:3,produc:[1,2,12],product:3,profil:[1,4,5],program:12,project:12,propag:[3,5,12],propos:2,propto:10,py:[4,9],pyplot:[1,3,4,8,9,11],python:[3,12],q2:1,q:[0,1,2,3,4,12],q_:1,q_x:1,q_y:1,qualiti:9,quantifi:9,quelqu:12,question:12,quick:1,r2:1,r:[1,3,4,5,8,12],r_:[3,4],r_abel:3,r_fourier:3,r_microsl:4,r_nevot_croc:4,r_with_rough:4,radiat:[0,1],rai:[1,12],random:9,rang:[1,2,3,4,9,12],rasant:12,rather:[2,6,7],ratio:5,ration:9,rayon:12,rck:12,re:9,reach:[7,9],read:12,reader:12,real:[3,4,5],realli:2,reason:7,recent:[8,12],recogn:12,rectangl:4,recurs:3,red:4,reduc:[6,8],refin:5,reflect:[1,2,4,5,12],reflectometri:[0,2,3,4,5,6,7,8,9,11],refnx:[3,12],refract:[3,5],region:[1,4,8,9],relat:7,relationship:1,relev:[8,12],reli:3,render:1,reparameteris:[5,7,8,11,12],repeat:7,repres:[2,11],reproduc:3,request:12,requir:[6,12],res1:9,res2:9,resolut:[1,2],respect:1,result:[1,2,3,4,5,9],resultant_matrix:3,retriv:1,rev:12,review:12,rewrit:1,rho:[3,7],rho_:7,rho_ni:7,rho_ti:7,rho_to_beta:7,richardson:12,right:4,risat:12,robust:9,room:7,root:9,rout:9,rphysap:12,rsta:12,rstl:12,rule:4,run:12,s0021889811041446:12,s0921:12,s1359:12,s1600576718017016:12,s1600576718017296:12,s:[0,1,7,8,9,10,12],saaka:12,sai:1,same:[4,5,7,11],sampl:[0,1,2,4,7],sanchez:12,sansom:12,satija:12,scale:[1,12],scatter:[0,1,3,4,5,6,8,12],sche:12,sci:12,scienc:[2,12],scipi:[7,9,11],search:12,section:[2,5,6,9],see:[4,5,9],seen:[10,11],select:11,self:8,semi:9,sensit:1,seri:[3,4,5],set:7,set_xlabel:[4,11],set_xlim:4,set_ylabel:[4,11],set_ylim:4,shao:12,shape:[3,9],shortest:4,should:[1,4,6,8,9,11,12],show:[1,2,3,4,5,7,8,9,11,12],shown:[1,2,3,4,5,8,9,11],si:1,sigma2:4,sigma3:4,sigma5:4,sigma7:4,sigma:[4,11],sigma_:4,sigma_n:11,silic:12,silicon:[1,4,7],similar:[2,3],simpl:[1,2,5,6,7,8,9,10,12],simpli:9,simul:[2,4,5,6,7],sin:8,singl:[8,11],sio_2:1,sit:[8,11],siv11:[1,12],sivia:[1,10,12],sj06:[10,12],skill:12,skip:12,sko19:12,skoda:12,slab:[4,6,8,12],sld_with_rough:4,smooth:[1,4],so:[11,12],soc:12,soft:12,softwar:12,solid:12,solubl:8,solut:9,solv:12,solvat:8,solvent:[8,12],some:[0,1,2,4,5,8,9,10,11,12],someth:[0,2],son:12,sourc:12,sp97:[9,12],space:[0,9,12],spallat:12,speak:8,specif:[6,8],spectra:2,specular:12,spintron:12,springer:12,sqrt:3,squar:[1,3],sratifi:12,staff:8,standard:11,start:[9,10],stat:[9,11],state:10,step:[4,9,10],stephen:12,still:[4,7],storn:12,straight_lin:11,straightforward:6,strand:8,stratifi:3,structur:[1,2,6,7,12],studi:[1,2,8,12],subject:12,subplot:[4,11],suggest:[10,12],sum:[1,3,7],sum_:[7,8,11],summat:11,superphas:3,sur:12,sure:12,surfac:[1,3,7,12],surfact:12,swarm:9,synthesi:2,system:[1,2,4,5,6,7,8,9,12],t:[9,12],t_t:8,tackl:2,tail:8,take:[0,2,9,10,12],taken:[3,5],tan80:[8,12],tanford:[8,12],techniqu:[6,12],temperatur:7,tend:1,term:[5,7,8,11],textquotesingl:12,than:[1,4,7,9],thank:12,thei:[9,12],them:[4,11],theorem:10,theori:[1,12],therefor:[2,4,6,7,9,10],theta:[8,9,10,11],thi:[0,1,2,3,4,5,6,7,8,9,10,11,12],thick:[1,3,4,5,8],thin:4,thing:2,think:6,those:10,thought:1,three:[2,7],through:[3,4,5],thumb:4,tight_layout:11,time:[0,1,4,7,12],tiqu:12,titanium:7,tkh:[9,12],togeth:3,tool:[1,2,6],top4:9,top:1,toperverg:12,total:12,touch:12,toward:[1,9,12],tradit:[7,8,12],tran:12,transform:[2,3,5,12],translat:6,transmitt:3,treec:12,trigonometri:8,tude:12,turn:9,tutori:[10,12],two:[2,3,4,5,6,8,9],txt:11,typic:[2,4,5,6,7,8,9,11],tz07:12,u:7,uantum:12,umbrellaid:12,uncertainti:11,unclear:7,under:[1,3,8],underli:[2,11],understand:[2,3,5,6,10,12],unintuit:6,uniqu:9,unit:0,unitregistri:7,univers:12,unlik:8,unphys:[1,4],until:7,up:[9,12],uphil:9,url:12,us:[2,3,4,6,7,8,9,10,11,12],useless:1,user:[1,12],utilis:1,valu:[1,3,7,8,9,10,11],vari:[7,9],variabl:7,varieti:9,vector:3,veri:[4,8,9],verr:12,version:1,via:[7,9,11],vibrat:2,video:0,visit:12,visualis:[1,4],vot:12,w:[7,12],wa:[1,2,5,10,12],wai:[2,8],wait:12,want:12,watch:0,water:[8,12],wave:[3,5],wavevector:[1,3],wc19:12,we:[0,1,2,4,5,6,7,8,10,11,12],weight:7,welbourn:12,well:2,were:10,what:12,when:[3,5,8,9,10,11],where:[1,2,3,4,5,7,8,9,10,11],which:[0,1,3,4,7,8,9,10,11],width:4,wiesendang:12,wilei:12,within:10,without:[1,2,4],word:2,work:[4,6,12],workflow:2,wormington:12,would:[2,4,5,8,10],wpmb99:[9,12],written:[1,11],wwe:8,x:[1,9,11,12],x_n:11,xlabel:[1,3,4,8,9],xy:8,y:[9,10,11,12],y_fit:11,y_n:11,ylabel:[1,3,4,8,9],you:[1,2,10,11,12],your:[8,12],yourself:12,yscale:[1,3,4],yy:11,z:[1,3,4,5],zabel:12,zero:3,zeros_lik:[1,3],zhou:12,zorder:11,zq:1,ztbt07:12},titles:["An introduction to Fourier transforms","Fourier transforms for reflectometry analysis","What is model-dependent analysis?","How we calculate the reflectivity of a slab model","Roughness and microslicing","The \u201cslab model\u201d","A case for model reparameterisation","NiTi multilayer example","Phospholipid monolayer example","How do we maximise the likelihood?","How to leverage our prior knowledge?","What is the likelihood?","Introduction to neutron reflectometry fitting"],titleterms:{"case":6,"do":9,A:[6,10],The:[1,5],algorithm:3,an:[0,1],analysi:[1,2],angl:8,approxim:1,area:8,bibliographi:12,born:1,calcul:3,chain:8,densiti:7,depend:2,exampl:[1,7,8],fit:12,fourier:[0,1],gradient:9,how:[3,9,10],interfac:1,interfaci:4,introduct:[0,12],knowledg:10,layer:1,length:7,leverag:10,likelihood:[9,11],mass:7,maximis:9,method:9,microsl:4,model:[2,3,5,6],molecul:8,monolay:8,multilay:7,neutron:12,niti:7,our:10,oxid:1,per:8,phospholipid:8,prior:10,problem:4,reflect:3,reflectometri:[1,12],reparameteris:6,rough:4,scatter:7,singl:1,slab:[3,5],specular:1,stochast:9,tilt:8,transform:[0,1],uniform:10,us:1,we:[3,9],what:[0,2,11]}})

diff --git a/4_model_reparameterisation/phospholipid_monolayer_example.html b/4_model_reparameterisation/phospholipid_monolayer_example.html
@@ -246,7 +246,6 @@ const thebe_selector_output = ".output, .cell_output"
                 
   <div class="tex2jax_ignore mathjax_ignore section" id="phospholipid-monolayer-example">
 <h1>Phospholipid monolayer example<a class="headerlink" href="#phospholipid-monolayer-example" title="Permalink to this headline">¶</a></h1>
-<p><a class="reference external" href="https://pan-learning.org/moodle/course/view.php?id=96"><strong>Interact with this notebook via pan-learning.org</strong></a></p>
 <p>A more complex example of model reparameterisation is that of a phospholipid monolayer, where the reparameterisation of our model allows <strong>additional constraints</strong> to be included that would be very difficult to apply in a traditional slab model approach.
 The amphiphilic nature of a phospholipid molecule, which consists of a water-soluble head group and insoluble, hydrocarbon tail group, means that these molecules will <strong>self-assemble</strong> at the air-water interface.</p>
 <p>For a typical phospholipid, such as <a class="reference external" href="https://en.wikipedia.org/wiki/Dipalmitoylphosphatidylcholine">DPPC</a>, there are two tail strands <strong>attached</strong> to each head and these tails typically sit with some <strong>chain tilt angle</strong>, <span class="math notranslate nohighlight">\(\theta\)</span>, which depends on the pressure acting on the tail groups in the <span class="math notranslate nohighlight">\(xy\)</span>-plane <span id="id1">[<a class="reference internal" href="../intro.html#id17" title="R. A. Campbell, Y. Saaka, Y. Shao, Y. Gerelli, R. Cubitt, E. Nazaruk, D. Matyszewska, and M. J. Lawrence. Structure of surfactant and phospholipid monolayers at the air/water interface modeled from neutron reflectivity data. J. Colloid Interface Sci., 531:98–108, 2018. doi:10.1016/j.jcis.2018.07.022.">CSS+18</a>]</span>.

diff --git a/5_fitting_processes_and_problems/how_do_we_maximise_the_likelihood.html b/5_fitting_processes_and_problems/how_do_we_maximise_the_likelihood.html
@@ -390,7 +390,7 @@ This is necessary as, as we can see from the overall maximum, the differential e
 </div>
 <div class="cell_output docutils container">
 <img alt="../_images/how_do_we_maximise_the_likelihood_6_0.png" src="../_images/how_do_we_maximise_the_likelihood_6_0.png" />
-<div class="output stream highlight-myst-ansi notranslate"><div class="highlight"><pre><span></span>Overall Maximum: [ 3.04483674 -0.02606134]
+<div class="output stream highlight-myst-ansi notranslate"><div class="highlight"><pre><span></span>Overall Maximum: [7.97659902 2.30324761]
 </pre></div>
 </div>
 </div>
